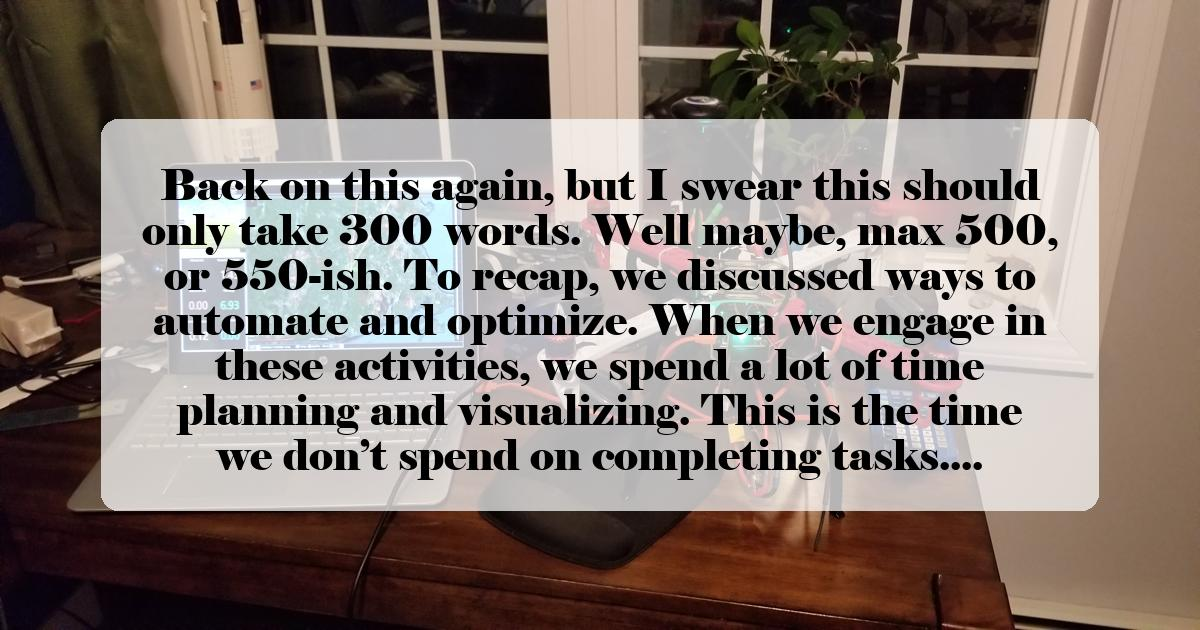
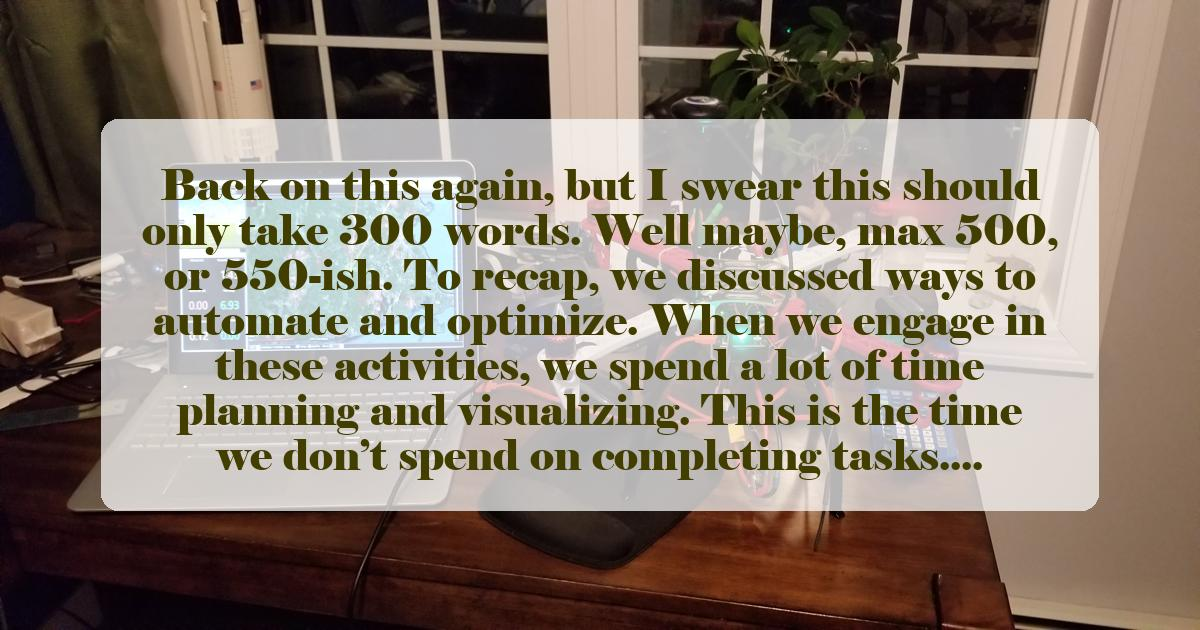
Fix: automation and blog post

Changed region(s): [[0.0925, 0.2714, 0.8942, 0.754]]

diff --git a/_site/jekyll/github/automation/2025/11/30/blog-4.html b/_site/jekyll/github/automation/2025/11/30/blog-4.html
@@ -3,9 +3,9 @@
   <meta charset="utf-8">
   <meta http-equiv="X-UA-Compatible" content="IE=edge">
   <meta name="viewport" content="width=device-width, initial-scale=1"><!-- Begin Jekyll SEO tag v2.8.0 -->
-<title>Pipeline Efficiency X Goal Completion PArt II | JBCs Blog</title>
+<title>Pipeline Efficiency X Goal Completion Part II | JBCs Blog</title>
 <meta name="generator" content="Jekyll v4.4.1" />
-<meta property="og:title" content="Pipeline Efficiency X Goal Completion PArt II" />
+<meta property="og:title" content="Pipeline Efficiency X Goal Completion Part II" />
 <meta name="author" content="Jefferson Bourguignon Coutinho" />
 <meta property="og:locale" content="en_US" />
 <meta name="description" content="Making a decision on whether to spend time automating a set of tasks or checking off the tasks one-by-one is difficult. If you “just do it” (Not sponsored by Nike), you can get them out of the way quickly. If you choose to take the time and optimize the process, it will be sluggish, and you might not even get to any of the tasks right away. But which is best? …" />
@@ -18,9 +18,9 @@
 <meta property="article:published_time" content="2025-11-30T00:00:00-05:00" />
 <meta name="twitter:card" content="summary_large_image" />
 <meta property="twitter:image" content="http://localhost:4000/jbc.github.io/assets/images/post4.social.media.jpg" />
-<meta property="twitter:title" content="Pipeline Efficiency X Goal Completion PArt II" />
+<meta property="twitter:title" content="Pipeline Efficiency X Goal Completion Part II" />
 <script type="application/ld+json">
-{"@context":"https://schema.org","@type":"BlogPosting","author":{"@type":"Person","name":"Jefferson Bourguignon Coutinho"},"dateModified":"2025-11-30T00:00:00-05:00","datePublished":"2025-11-30T00:00:00-05:00","description":"Making a decision on whether to spend time automating a set of tasks or checking off the tasks one-by-one is difficult. If you “just do it” (Not sponsored by Nike), you can get them out of the way quickly. If you choose to take the time and optimize the process, it will be sluggish, and you might not even get to any of the tasks right away. But which is best? …","headline":"Pipeline Efficiency X Goal Completion PArt II","image":"http://localhost:4000/jbc.github.io/assets/images/post4.social.media.jpg","mainEntityOfPage":{"@type":"WebPage","@id":"http://localhost:4000/jbc.github.io/jekyll/github/automation/2025/11/30/blog-4.html"},"url":"http://localhost:4000/jbc.github.io/jekyll/github/automation/2025/11/30/blog-4.html"}</script>
+{"@context":"https://schema.org","@type":"BlogPosting","author":{"@type":"Person","name":"Jefferson Bourguignon Coutinho"},"dateModified":"2025-11-30T00:00:00-05:00","datePublished":"2025-11-30T00:00:00-05:00","description":"Making a decision on whether to spend time automating a set of tasks or checking off the tasks one-by-one is difficult. If you “just do it” (Not sponsored by Nike), you can get them out of the way quickly. If you choose to take the time and optimize the process, it will be sluggish, and you might not even get to any of the tasks right away. But which is best? …","headline":"Pipeline Efficiency X Goal Completion Part II","image":"http://localhost:4000/jbc.github.io/assets/images/post4.social.media.jpg","mainEntityOfPage":{"@type":"WebPage","@id":"http://localhost:4000/jbc.github.io/jekyll/github/automation/2025/11/30/blog-4.html"},"url":"http://localhost:4000/jbc.github.io/jekyll/github/automation/2025/11/30/blog-4.html"}</script>
 <!-- End Jekyll SEO tag -->
 <link id="main-stylesheet" rel="stylesheet" href="/jbc.github.io/assets/css/style.css"><link type="application/atom+xml" rel="alternate" href="http://localhost:4000/jbc.github.io/feed.xml" title="JBCs Blog" /></head>
 <body style="background-image: url('/jbc.github.io/assets/images/post4.jpg');">
@@ -46,7 +46,7 @@
     <h1 class="post-title p-name" itemprop="name headline">Pipeline Efficiency <br />
  X <br />
  Goal Completion <br />
- PArt II</h1>
+ Part II</h1>
     <div class="post-meta">
       <time class="dt-published" datetime="2025-11-30T00:00:00-05:00" itemprop="datePublished">
         Nov 30, 2025

diff --git a/_site/jekyll/github/automation/2025/12/06/blog-5.html b/_site/jekyll/github/automation/2025/12/06/blog-5.html
@@ -59,13 +59,13 @@
   </header>
 
   <div class="post-content e-content" itemprop="articleBody">
-    <p><em><span style="color: purple;">Back on this again, but I swear this should only take 300 words. Well maybe, max 500, or 550-ish. To recap, we discussed ways to automate and optimize. When we engage in these activities, we spend a lot of time planning and visualizing. This is the time we don’t spend on completing tasks. </span></em></p>
+    <p><em><span style="color: #423E00;">Back on this again, but I swear this should only take 300 words. Well maybe, max 500, or 550-ish. To recap, we discussed ways to automate and optimize. When we engage in these activities, we spend a lot of time planning and visualizing. This is the time we don’t spend on completing tasks.</span></em></p>
 
-<p>The book, Software Engineering at Google, has some great topics. The most memorable, and I paraphrase: some things are important but not urgent and some things are urgent but not important. A good engineer is one that knows when to drop the ball. How I see this is: {there is always going to be something urgent to do. Urgent things are menial, they are short-lived, and are usually something imposed on you by others. The important things are usually not urgent because they have a long project horizon or a protracted completion so we keep postponing them, out of procrastination or someone else’s will  imposed on you—yeah, money, the boss, the government, your mom or something}.</p>
+<p>The book, <strong><em>Software Engineering at Google</em></strong>, has some great topics. The most memorable, and I paraphrase: <strong><em>some things are important but not urgent and some things are urgent but not important. A good engineer is one that knows when to drop the ball</em></strong>. How I see this is: {there is always going to be something urgent to do. Urgent things are menial, they are short-lived, and are usually something imposed on you by others. The important things are usually not urgent because they have a long project horizon or a protracted completion so we keep postponing them, out of procrastination or someone else’s will  imposed on you—yeah, money, the boss, the government, your mom or something}.</p>
 
 <p>When you have something important in life that involves one task or many tasks, these always have to do with change. We want to activate or instill change in ourselves, in others, in our environment.</p>
 
-<p>Creating pipelines or automating how we do things are structural in nature. These will give us the best long-term benefits because change needs to be structural; otherwise it will be superficial and eventually irrelevant. Meaningful change comes from behavioral change, whether good or bad.</p>
+<p>Creating pipelines or automating how we do things are structural in nature. These will give us the best long-term benefits because <strong><em>change needs to be structural; otherwise it will be superficial and eventually irrelevant</em></strong>. Meaningful change comes from behavioral change, whether good or bad.</p>
 
 <p>A lot of people like the illusion of talent.</p>
 

diff --git a/_site/index.html b/_site/index.html
@@ -29,7 +29,7 @@
                     <h3><a href="/jbc.github.io/jekyll/github/automation/2025/11/30/blog-4.html">Pipeline Efficiency 
  X 
  Goal Completion 
- PArt II</a></h3>
+ Part II</a></h3>
                     <p class="post-date">November 30, 2025</p>
                     <p>Making a decision on whether to spend time automating a set of tasks or checking off the tasks one-by-one is difficult. If you “just do it” (Not sponsored by Nike), you can get them out of the way quickly. If you choose to take the time and optimize the process, it will be sluggish, and you might not even get to any of the tasks right away. But which is best? ...</p>
                     <a href="/jbc.github.io/jekyll/github/automation/2025/11/30/blog-4.html" class="read-more">Read More</a>

diff --git a/_site/automation/tools/blog_writer.py b/_site/automation/tools/blog_writer.py
@@ -69,7 +69,7 @@ excerpt: "{excerpt_text}"
             original_paragraph = first_paragraph_match.group(1)
             excerpt_text = original_paragraph.strip() + "..."
             # Style the first paragraph in the body content
-            styled_paragraph = f'<em><span style="color: purple;">{original_paragraph}</span></em>'
+            styled_paragraph = f'<em><span style="color: #423E00;">{original_paragraph}</span></em>'
             # Replace the original first paragraph with the styled one in the main content
             self.content = self.content.replace(original_paragraph, styled_paragraph, 1)
         else:

diff --git a/automation/tools/blog_writer.py b/automation/tools/blog_writer.py
@@ -69,7 +69,7 @@ excerpt: "{excerpt_text}"
             original_paragraph = first_paragraph_match.group(1)
             excerpt_text = original_paragraph.strip() + "..."
             # Style the first paragraph in the body content
-            styled_paragraph = f'<em><span style="color: purple;">{original_paragraph}</span></em>'
+            styled_paragraph = f'<em><span style="color: #423E00;">{original_paragraph}</span></em>'
             # Replace the original first paragraph with the styled one in the main content
             self.content = self.content.replace(original_paragraph, styled_paragraph, 1)
         else:

diff --git a/_site/automation/tools/generate_social_card.py b/_site/automation/tools/generate_social_card.py
@@ -37,7 +37,7 @@ else: # Linux, macOS, or Windows Subsystem for Linux (WSL)
 # --- General Configuration ---
 POSTS_DIR = os.path.join(PROJECT_ROOT, "_posts")
 RESIZE_DIMS = (1200, 630)
-TEXT_COLOR = (0, 0, 0) # Black
+TEXT_COLOR = (66, 62, 0) # Almost black yellow
 GLASS_COLOR = (255, 255, 255, 180) # White, ~47% transparent
 
 def find_latest_post() -> Union[str, None]:

diff --git a/automation/tools/generate_social_card.py b/automation/tools/generate_social_card.py
@@ -37,7 +37,7 @@ else: # Linux, macOS, or Windows Subsystem for Linux (WSL)
 # --- General Configuration ---
 POSTS_DIR = os.path.join(PROJECT_ROOT, "_posts")
 RESIZE_DIMS = (1200, 630)
-TEXT_COLOR = (0, 0, 0) # Black
+TEXT_COLOR = (66, 62, 0) # Almost black yellow
 GLASS_COLOR = (255, 255, 255, 180) # White, ~47% transparent
 
 def find_latest_post() -> Union[str, None]:

diff --git a/_posts/2025-12-06-blog-5.md b/_posts/2025-12-06-blog-5.md
@@ -12,14 +12,14 @@ image: /assets/images/post5.social.media.jpg
 excerpt: "Back on this again, but I swear this should only take 300 words. Well maybe, max 500, or 550-ish. To recap, we discussed ways to automate and optimize. When we engage in these activities, we spend a lot of time planning and visualizing. This is the time we don’t spend on completing tasks...."
 ---
 
-<em><span style="color: purple;">Back on this again, but I swear this should only take 300 words. Well maybe, max 500, or 550-ish. To recap, we discussed ways to automate and optimize. When we engage in these activities, we spend a lot of time planning and visualizing. This is the time we don’t spend on completing tasks. </span></em>
+<em><span style="color: #423E00;">Back on this again, but I swear this should only take 300 words. Well maybe, max 500, or 550-ish. To recap, we discussed ways to automate and optimize. When we engage in these activities, we spend a lot of time planning and visualizing. This is the time we don’t spend on completing tasks.</span></em>
 
-The book, Software Engineering at Google, has some great topics. The most memorable, and I paraphrase: some things are important but not urgent and some things are urgent but not important. A good engineer is one that knows when to drop the ball. How I see this is: {there is always going to be something urgent to do. Urgent things are menial, they are short-lived, and are usually something imposed on you by others. The important things are usually not urgent because they have a long project horizon or a protracted completion so we keep postponing them, out of procrastination or someone else's will  imposed on you—yeah, money, the boss, the government, your mom or something}.  
+The book, **_Software Engineering at Google_**, has some great topics. The most memorable, and I paraphrase: __*some things are important but not urgent and some things are urgent but not important. A good engineer is one that knows when to drop the ball*__. How I see this is: {there is always going to be something urgent to do. Urgent things are menial, they are short-lived, and are usually something imposed on you by others. The important things are usually not urgent because they have a long project horizon or a protracted completion so we keep postponing them, out of procrastination or someone else's will  imposed on you—yeah, money, the boss, the government, your mom or something}.  
 
 
 When you have something important in life that involves one task or many tasks, these always have to do with change. We want to activate or instill change in ourselves, in others, in our environment. 
 
-Creating pipelines or automating how we do things are structural in nature. These will give us the best long-term benefits because change needs to be structural; otherwise it will be superficial and eventually irrelevant. Meaningful change comes from behavioral change, whether good or bad. 
+Creating pipelines or automating how we do things are structural in nature. These will give us the best long-term benefits because ***change needs to be structural; otherwise it will be superficial and eventually irrelevant***. Meaningful change comes from behavioral change, whether good or bad. 
 
 A lot of people like the illusion of talent.
 

diff --git a/_posts/2025-11-30-blog-4.md b/_posts/2025-11-30-blog-4.md
@@ -1,6 +1,6 @@
 ---
 layout: post
-title: "Pipeline Efficiency \n X \n Goal Completion \n PArt II"
+title: "Pipeline Efficiency \n X \n Goal Completion \n Part II"
 author: "Jefferson Bourguignon Coutinho"
 date: 2025-11-30
 categories:
